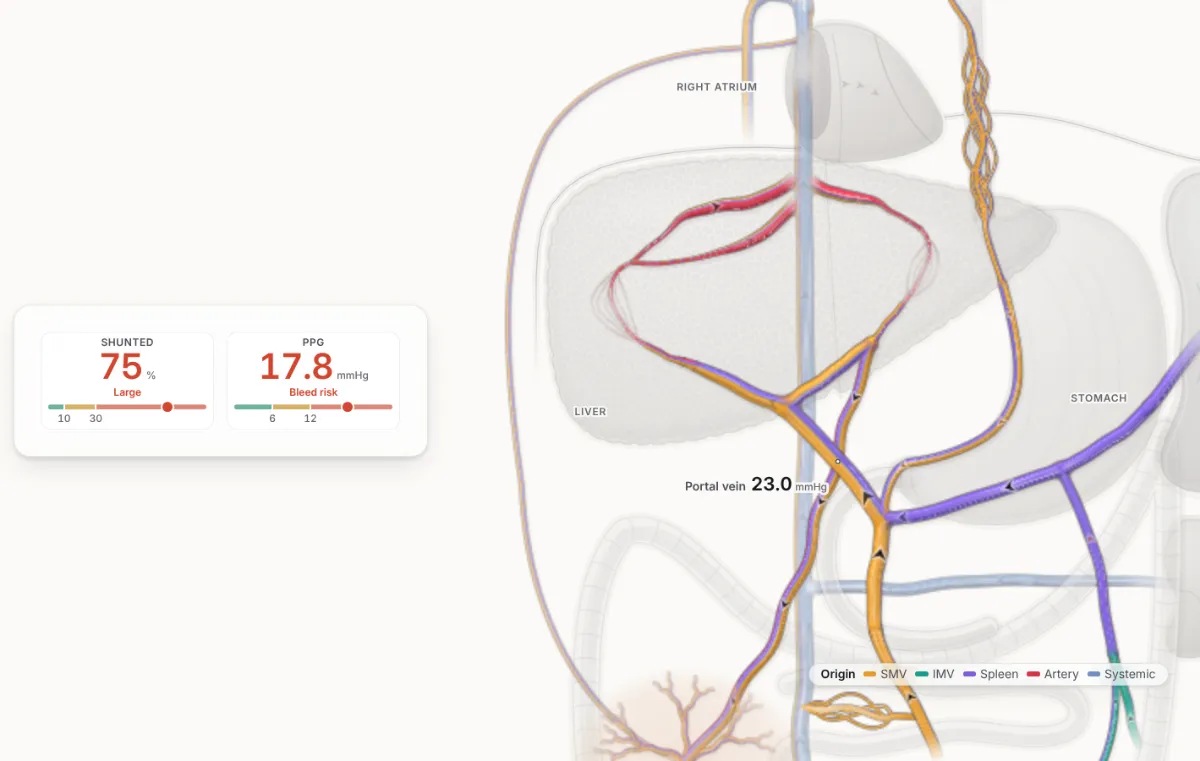
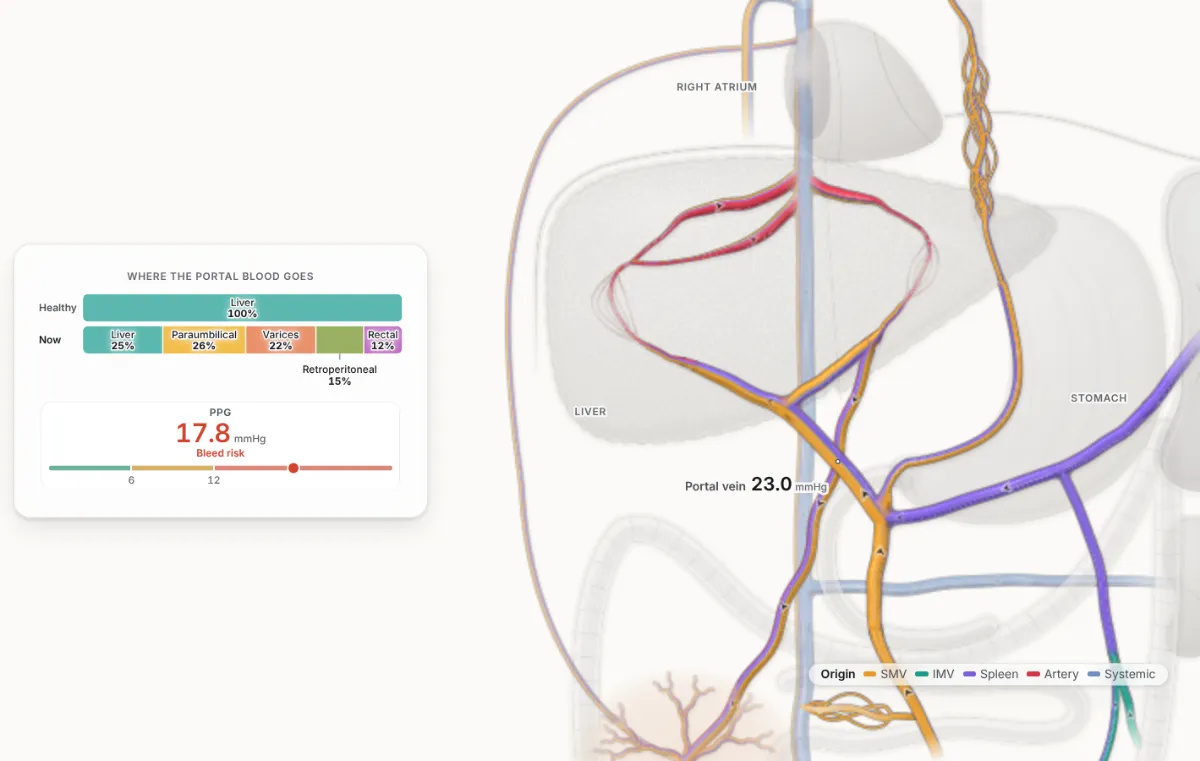
TIPS Doppler talk: aliasing and its fix, variance at the jet, where the portal blood goes
Mohammad's pick (20 Oct, "Do all except #1", review/deck-card-ideas/recs.md, deck 5; his card answer
"Allow, these two" for the handout pictures):
- Two new slides after "The stent is sampled at three points": "Flow faster than the scale wraps round"
  (scale fixed at 80 cm/s, below the working stent's 110 cm/s) and "Moving the baseline down makes room"
  (baseline 0.85), as Testing slides 66–67 (Ferraioli, EFSUMB; Meola et al., J Vasc Access 2021).
- "Most portal blood already bypasses the liver" shows the portal blood bars with the Before / With TIPS
  buttons; the Shunted tile goes, the bar shows it.
- "The jet shows where the stent narrows" shows the Doppler in variance mode, and its line says so while
  keeping both cut-off pills.
Handout pictures made headless for this deck only, kept for the two new slides and the two changed ones.

Claude-Session: https://claude.ai/code/session_013e587KvtAeCK5f4ecFn1ED

diff --git a/src/ui/decks/tips-doppler.js b/src/ui/decks/tips-doppler.js
@@ -39,7 +39,7 @@ export const TIPS_DOPPLER = {
       // The stent switched on in real time, before the varices shrink over the following weeks (the next slide): about
       // three quarters of the gut and spleen blood already bypasses the liver through collaterals, and the TIPS takes it
       // to almost 90%, while the varices slow from about 270 to 170 cm/s. The buttons carry the next slide's settings.
-      id: 'shunted', cam: 'route', lens: 'origin', labels: ['CONF'], data: 'tiles', tiles: ['shunt', 'ppg'], key: ['shunt'],
+      id: 'shunted', cam: 'route', lens: 'origin', labels: ['CONF'], tool: { kind: 'flows' }, data: 'tiles', tiles: ['ppg'],
       compare: [{ label: 'Before TIPS', own: true, params: { tips: { on: false, d: 8 }, splanchnicTone: 1, habrStrength: 1, apShunt: 0 } },
         { label: 'With TIPS', params: { tips: { on: true, d: 9 }, splanchnicTone: 0.7, habrStrength: 1.5, apShunt: 0.5 } }],
       kicker: 'Before TIPS', title: 'Most portal blood already bypasses the liver',
@@ -67,6 +67,22 @@ export const TIPS_DOPPLER = {
       caveat: 'In the model the open stent reads about a tenth slower at its portal end than mid stent; in patients the three often differ by a few tens of cm/s.',
       notes: 'Blood speeds up as it enters the stent, which is narrower than the portal vein, and runs from the portal vein toward the heart along its whole length. Each of the three points normally reads 90 to 190 cm/s. In patent shunts confirmed at venography, mean peaks were about 140 cm/s at the portal end, 150 to 185 cm/s mid stent and 140 to 170 cm/s at the hepatic vein end, often highest mid stent in 8 mm stents (Mitchell et al., 2025). A velocity outside 90 to 190 cm/s, or a change of more than 50 cm/s from the baseline study, suggests stenosis. These cut-offs come from bare stents; covered stents narrow far less often, so the change from the baseline study counts for more. Tap Proximal, Mid or Distal to move the Doppler gate; that third of the stent glows green.',
       ask: ['Where along the stent is the velocity measured?', 'At the portal end (proximal), in the middle (mid) and at the hepatic vein end (distal).'],
+    },
+    {
+      // Aliasing (Ferraioli, EFSUMB; Meola et al., J Vasc Access 2021): the scale is fixed at 80 cm/s each way, the Nyquist
+      // limit, below this working stent's velocity, so the top of its spectrum wraps round to the other side of the baseline.
+      id: 'alias', cam: 'liver', tool: { kind: 'doppler', vessel: 'TIPS', scale: 80 },
+      kicker: 'A working TIPS', title: 'Flow faster than the scale wraps round',
+      line: 'The scale here reaches 80 cm/s each way. The stent\'s flow is faster, so the top of its spectrum wraps round and shows below the baseline. This is aliasing, not flow running backwards.',
+      notes: 'Pulsed Doppler samples the echoes in bursts, so it can measure a velocity only up to half its pulse repetition frequency, the Nyquist limit, which the scanner shows as the velocity scale. Faster flow is drawn on the other side of the baseline, as if it ran the other way. In a TIPS, where flow is fast, aliasing can look like reversed flow and hides the true peak.',
+      ask: ['The top of a stent\'s spectrum shows below the baseline. Is the flow reversed?', 'No: it is faster than the scale, so it wraps round (aliasing). Move the baseline or raise the scale.'],
+    },
+    {
+      id: 'alias-fix', cam: 'liver', tool: { kind: 'doppler', vessel: 'TIPS', scale: 80, baseline: 0.85 },
+      kicker: 'A working TIPS', title: 'Moving the baseline down makes room',
+      line: 'The same stent with the baseline moved down. The scale now reaches further toward the probe, so the whole spectrum fits above the baseline. Raising the scale would fix it too.',
+      notes: 'Moving the baseline gives the direction of flow more of the scale without changing the Nyquist limit. Raising the scale, a higher pulse repetition frequency, lifts the limit itself, and a lower frequency transducer helps too. Read the peak velocity only once the whole spectrum fits.',
+      ask: ['Name two ways to remove aliasing from a spectral trace.', 'Move the baseline away from the direction of flow, or raise the velocity scale.'],
     },
     {
       id: 'mpv', cam: 'portal', lens: 'velocity', labels: ['CONF'], tool: { kind: 'doppler', vessel: 'PV_TRUNK', delta: 'before' },
@@ -103,11 +119,11 @@ export const TIPS_DOPPLER = {
     },
     {
       // The same 60 % pinch moved along the stent with the buttons: the flow is the same wherever it sits, and the gate follows it.
-      id: 'where', cam: 'liver', lens: 'velocity', mark: { edges: ['TIPS'], label: 'Narrowing', seg: 'site' }, tool: { kind: 'doppler', vessel: 'TIPS', gate: 'site', points: true },
+      id: 'where', cam: 'liver', lens: 'velocity', mark: { edges: ['TIPS'], label: 'Narrowing', seg: 'site' }, tool: { kind: 'doppler', vessel: 'TIPS', gate: 'site', points: true, mode: 'variance' },
       compare: [{ label: 'Proximal', params: { stenosisSite: { TIPS: 'proximal' } } }, { label: 'Mid', params: { stenosisSite: { TIPS: 'mid' } } },
         { label: 'Distal', own: true, params: { stenosisSite: { TIPS: 'distal' } } }],
       kicker: 'TIPS stenosis', title: 'The jet shows where the stent narrows',
-      line: 'Most narrowings form at the hepatic vein end, but some form mid stent or at the portal end. Wherever it sits, the jet runs over {>190 cm/s} only at the narrowing, and the other two points read under {<90 cm/s}.',
+      line: 'Most narrowings form at the hepatic vein end, some mid stent or at the portal end. Only the narrowing runs over {>190 cm/s}; the other two points read under {<90 cm/s}. In variance mode the jet\'s trace turns from orange toward yellow.',
       notes: 'A narrowing at the hepatic vein end often reflects intimal hyperplasia where the stent meets the hepatic vein, or a stent that stops short of the cava. Within the stent, pseudointimal hyperplasia or a kink can narrow it, and at the portal end the stent can be too short or angled against the vein wall. The Doppler finds the site by its jet: the fastest of the three readings, with slow flow on either side. The Doppler card lists all three, so read them together and against the baseline study. Tap Proximal, Mid or Distal to move the narrowing; the gate follows it.',
       ask: ['A TIPS reads 60 cm/s proximally, 240 cm/s mid stent and 65 cm/s distally. Where is the narrowing?', 'Mid stent, where the jet is.'],
     },

diff --git a/src/ui/presenter.js b/src/ui/presenter.js
@@ -20,11 +20,16 @@ import { sinusoidSupported } from './sinusoid-view.js?v=98d1923b7c';
 import { NODES } from '../engine/topology.js?v=4044766e96';
 import { DISEASE_SRC, diseasePieces } from './diseases.js?v=fb8a5451c3';
 import { nb, listCase, plateletText } from './glue.js?v=5a0f63226b';
-import { DECKS, REGIONS, LEVELS, TOPICS, withOverview, siteTag, SITE_TAGS } from './decks.js?v=2957ee1987';
+import { DECKS, REGIONS, LEVELS, TOPICS, withOverview, siteTag, SITE_TAGS } from './decks.js?v=1e4c1abd39';
 import { wholeGap, tenthGap } from '../engine/gap.js?v=3a5947c552';
 import { createHvpgMonitor } from './hvpg-proc.js?v=3a8585d477';
-import { createTools } from './presenter-tools.js?v=7aff036b3e';
-import { openHandout } from './handout.js?v=57fd6d8bda';
+<<<<<<< HEAD
+import { createTools } from './presenter-tools.js?v=af3ed18eb7';
+import { openHandout } from './handout.js?v=4ec3a711fe';
+=======
+import { createTools } from './presenter-tools.js?v=af3ed18eb7';
+import { openHandout } from './handout.js?v=4ec3a711fe';
+>>>>>>> 103fe2d (TIPS Doppler talk: aliasing and its fix, variance at the jet, where the portal blood goes)
 import { noteResume, resumeFor } from './resume.js?v=f086f80ee8';
 import { parseDeckSource, checkDeck } from './deck-source.js?v=8395c650cd';
 import { NO_ASC, TILE, SCALE, bandsOf, rateOf, COLS, CUT, PRESS, fpv, dirAbs, dirRel, rateAbs, effOf, rateShown, tileShown, tipsGoal, liveSettled, shownSig } from './table-marks.js?v=1dc429fe31';
@@ -32,7 +37,11 @@ import { frameFor, cancelFrame } from './frame.js?v=2ce59939b2';
 import { createFigureKey } from './figure-key.js?v=7e170d78ce';
 import { traceWhen } from './trace-labels.js?v=fc916a95c6';
 import { flowCss, heatCss, dropCss, gradientCss, oxygenCss } from './colormap.js?v=1092d36abc';
-import { EXT, expandIds, stepExtra, markLabel, figureHooks, safe } from './slide-ext.js?v=1c5886f2c6';
+<<<<<<< HEAD
+import { EXT, expandIds, stepExtra, markLabel, figureHooks, safe } from './slide-ext.js?v=771dca3cc3';
+=======
+import { EXT, expandIds, stepExtra, markLabel, figureHooks, safe } from './slide-ext.js?v=771dca3cc3';
+>>>>>>> 103fe2d (TIPS Doppler talk: aliasing and its fix, variance at the jet, where the portal blood goes)
 import { citeText, focusOf, ladderFromOf, ladderFromName } from './teach-extras.js?v=d8224d9bb5';
 import { DEMO_ALL } from './test-decks/demo-all-new-visuals.js?v=9aeadbb887';
 import { COMPACT, WIDE } from './card-type.js?v=f5dfdb80f2';

diff --git a/src/ui/main.js b/src/ui/main.js
@@ -166,7 +166,11 @@ async function main() {
   dock = createDock({ strip: $('#strip'), head: $('#dockHead'), body: $('#dockBody'), onWhy: (m, el) => why.open(m, el), onAction: doAction, onProbe: (id) => { host.send({ type: 'probe', id }); logAction('probe', id); }, onReveal: revealDock, onLobule: () => zoomLobule('R'),
     onOpen: () => openPanel('instruments'), onClose: () => setPanelTab('chart'), onLayout: () => syncDoppler(), isVisible: () => app.classList.contains('dock-open'),
     marks: () => timeline.entries(), onBeat: () => sendBeat() });
-  presenterL = lazy(() => import('./presenter.js?v=3d8c5d66e3'), ({ createPresenter }) => createPresenter({ openSettings, loadPreset, updateParams, host, stage, dock, action: doAction,
+<<<<<<< HEAD
+  presenterL = lazy(() => import('./presenter.js?v=2d9256e913'), ({ createPresenter }) => createPresenter({ openSettings, loadPreset, updateParams, host, stage, dock, action: doAction,
+=======
+  presenterL = lazy(() => import('./presenter.js?v=2d9256e913'), ({ createPresenter }) => createPresenter({ openSettings, loadPreset, updateParams, host, stage, dock, action: doAction,
+>>>>>>> 103fe2d (TIPS Doppler talk: aliasing and its fix, variance at the jet, where the portal blood goes)
     projectorOn: () => { if (!projector) toggleProjector(); }, projectorOff: () => { if (projector) toggleProjector(); },
     closeHome: () => mainMenu.close(), stashCards, rerenderHome: () => mainMenu.render() }));
   mainMenu = createMenu({

diff --git a/src/ui/presenter-tools.js b/src/ui/presenter-tools.js
@@ -34,7 +34,11 @@ import { createFlowTime } from './flow-time.js?v=81255fd534';
 import { createEndoscopy, createAbdomen, createVarixWall } from './instruments.js?v=67947967c4';
 import { frameFor } from './frame.js?v=2ce59939b2';
 import { talkTrace } from './talk-trace.js?v=0ce7c3772c';
-import { EXT, guard, safe } from './slide-ext.js?v=1c5886f2c6';
+<<<<<<< HEAD
+import { EXT, guard, safe } from './slide-ext.js?v=771dca3cc3';
+=======
+import { EXT, guard, safe } from './slide-ext.js?v=771dca3cc3';
+>>>>>>> 103fe2d (TIPS Doppler talk: aliasing and its fix, variance at the jet, where the portal blood goes)
 const nextFrame = frameFor('presenter-tools');
 
 const VESSEL = { PV_TRUNK: 'main portal vein', PVH_R: 'right portal vein', PVH_L: 'left portal vein', SV_CONF: 'splenic vein', SV_MID: 'splenic vein', V_SPL: 'splenic vein, at the hilum',

diff --git a/src/ui/ext-highlights.js b/src/ui/ext-highlights.js
@@ -9,7 +9,7 @@
 //   lens: 'since' (since: '<slide id>', sinceLabel: '…')   the Change colours against the slide before, or a named one (V11)
 //   lens: 'system'                     portal veins, systemic veins and the collaterals between them in three colours (V7)
 import { EDGES } from '../engine/topology.js?v=4044766e96';
-import { withOverview } from './decks.js?v=2957ee1987';
+import { withOverview } from './decks.js?v=1e4c1abd39';
 import { SETS, ORGAN_TARGETS, NEW_ORGANS, spotOf, stateIndex, sinceWords } from './highlight-math.js?v=e2c1816e25';
 
 const VESSEL = new Set(EDGES.map((e) => e.id));

diff --git a/src/ui/decks.js b/src/ui/decks.js
@@ -84,7 +84,7 @@ import { STIFFNESS } from './decks/stiffness.js?v=2b032b2ccc';
 import { ONE_YEAR } from './decks/one-year.js?v=a6809d1782';
 import { LOBULE } from './decks/lobule.js?v=0f1da68b24';
 import { SHUNTS } from './decks/shunts.js?v=fdf4deb758';
-import { TIPS_DOPPLER } from './decks/tips-doppler.js?v=de617a23d1';
+import { TIPS_DOPPLER } from './decks/tips-doppler.js?v=c922a6efa4';
 import { TAP } from './decks/tap.js?v=a8bc8891ac';
 import { CIRCUIT } from './decks/circuit.js?v=d5d6adc43b';
 import { DOPPLER } from './decks/doppler.js?v=9dfa6b809a';

diff --git a/src/ui/slide-ext.js b/src/ui/slide-ext.js
@@ -17,7 +17,7 @@
 // Built-in names win, and a name two packages register is kept from the first only: tests/slide-ext.test.js fails on both.
 // Every call into a package is guarded, so a package that throws loses its own feature and never stops a talk.
 
-import highlights from './ext-highlights.js?v=a1b54051df';
+import highlights from './ext-highlights.js?v=90f30c1290';
 import charts from './ext-charts.js?v=a722fd98b4';
 import model from './ext-model.js?v=da4302cbc8';
 import panels from './ext-panels.js?v=4cf4127c4d';

diff --git a/src/ui/handout.js b/src/ui/handout.js
@@ -6,7 +6,7 @@
 // (decks.js, new ones included: a slide without a figure prints without one) and for the instructor's scripts.
 
 import { download } from './download.js?v=3564e5bf8c';
-import { LEVELS, withOverview } from './decks.js?v=2957ee1987';
+import { LEVELS, withOverview } from './decks.js?v=1e4c1abd39';
 import { TILE } from './table-marks.js?v=1dc429fe31';
 import { plateletText } from './glue.js?v=5a0f63226b';
 import { citeText } from './teach-extras.js?v=d8224d9bb5';

diff --git a/index.html b/index.html
@@ -232,6 +232,6 @@ function wait(){if(ready()){if(w.ppsUnsupported)return;failed=false;setTimeout(h
   <link rel="modulepreload" href="src/ui/instruments.js?v=67947967c4" />
   <link rel="modulepreload" href="src/ui/timeline.js?v=fc10406791" />
   <link rel="modulepreload" href="src/engine/topology.js?v=4044766e96" />
-  <script type="module" src="src/ui/main.js?v=ddcbe3a8e3"></script>
+  <script type="module" src="src/ui/main.js?v=6fb2bec1c5"></script>
 </body>
 </html>

diff --git a/tests/deck-adopted.js b/tests/deck-adopted.js
@@ -18,6 +18,10 @@ export const ADOPTED = {
   'doppler/hepatic': ['tool.mode'],
   'doppler/rhf': ['tool.pair', 'tool.calipers'],
   'doppler/summary': ['cols.wave', 'wave'],
+  'tips-doppler/shunted': ['kind:flows'],
+  'tips-doppler/alias': ['tool.scale'],
+  'tips-doppler/alias-fix': ['tool.scale', 'tool.baseline'],
+  'tips-doppler/where': ['tool.mode'],
 };
 
 /** Whether the slide d/s may use the field. */
